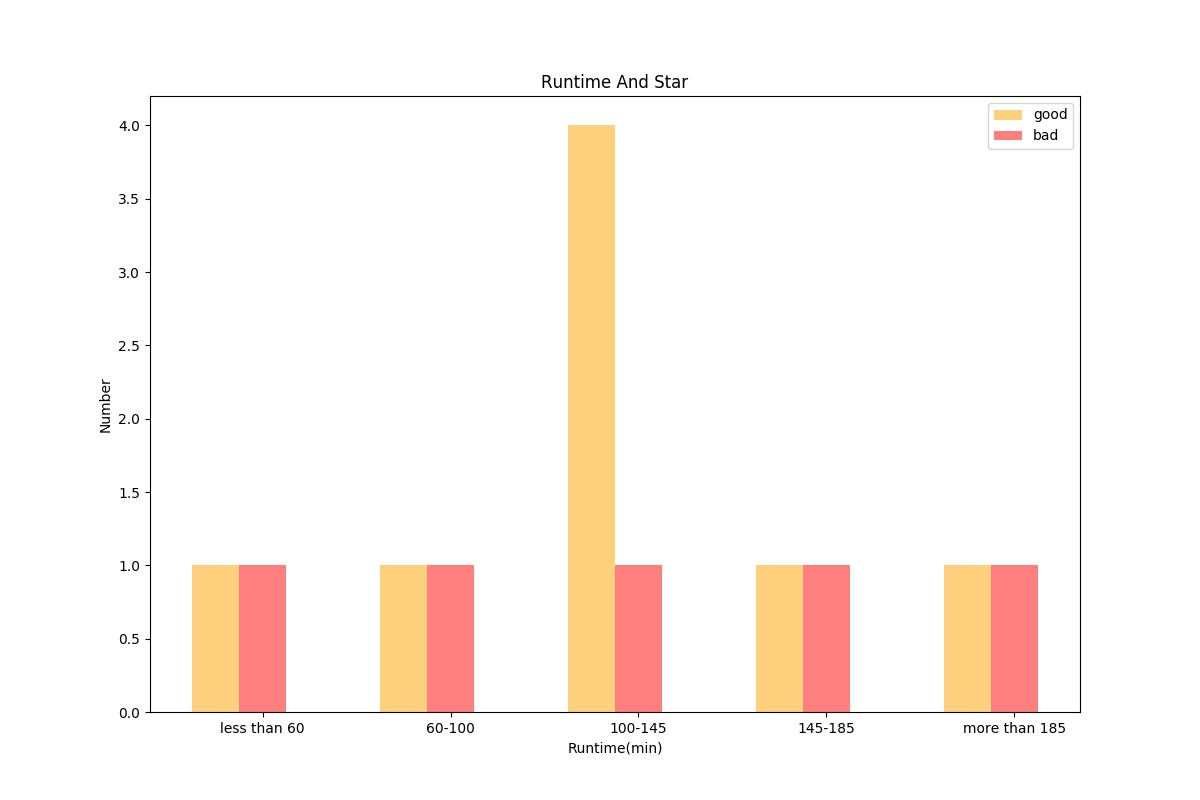
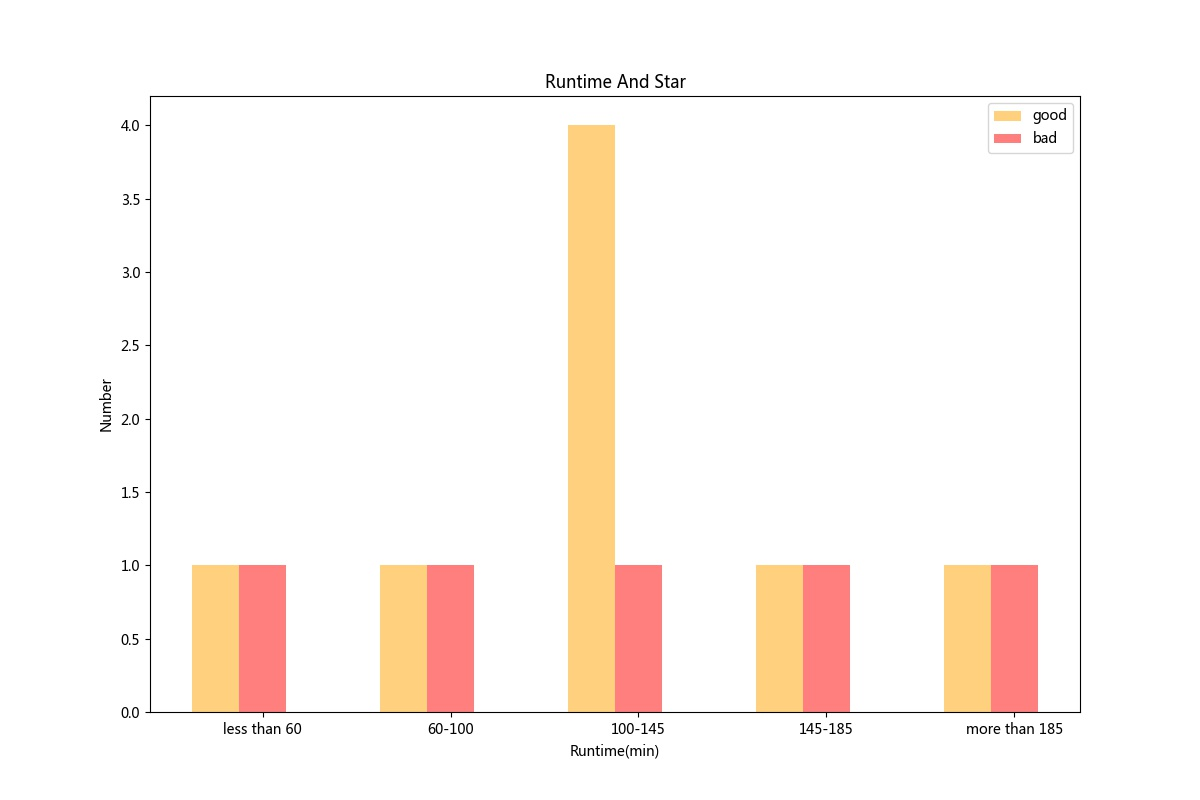
none

diff --git a/douban/data.py b/douban/data.py
@@ -90,5 +90,5 @@ if __name__ == "__main__":
             x.append(k.replace("_"," "))
             y1.append(v.get("good")+1)
             y2.append(v.get("bad")+1)
-    save_r_a_s(x,y1,y2,"result/runtime_and_star.png")
+    save_r_a_s(x,y1,y2,"result/runtime_and_star.jpg")
     print("Finish-----Runtime and star")
